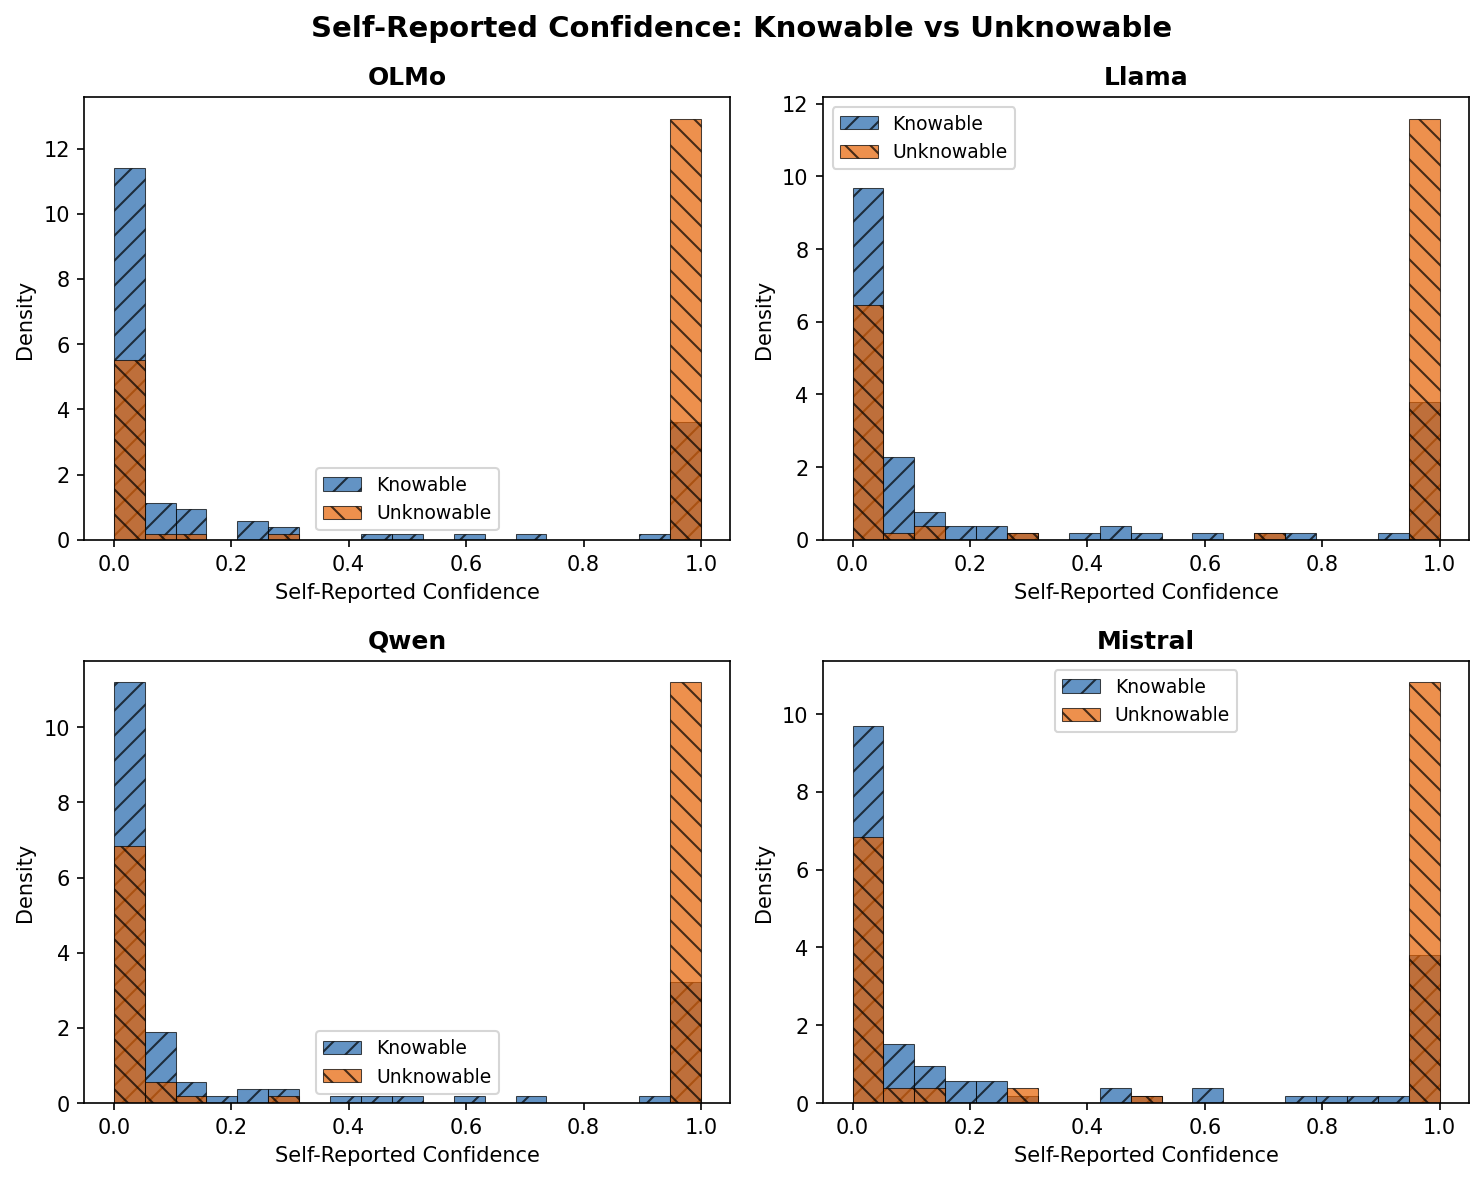
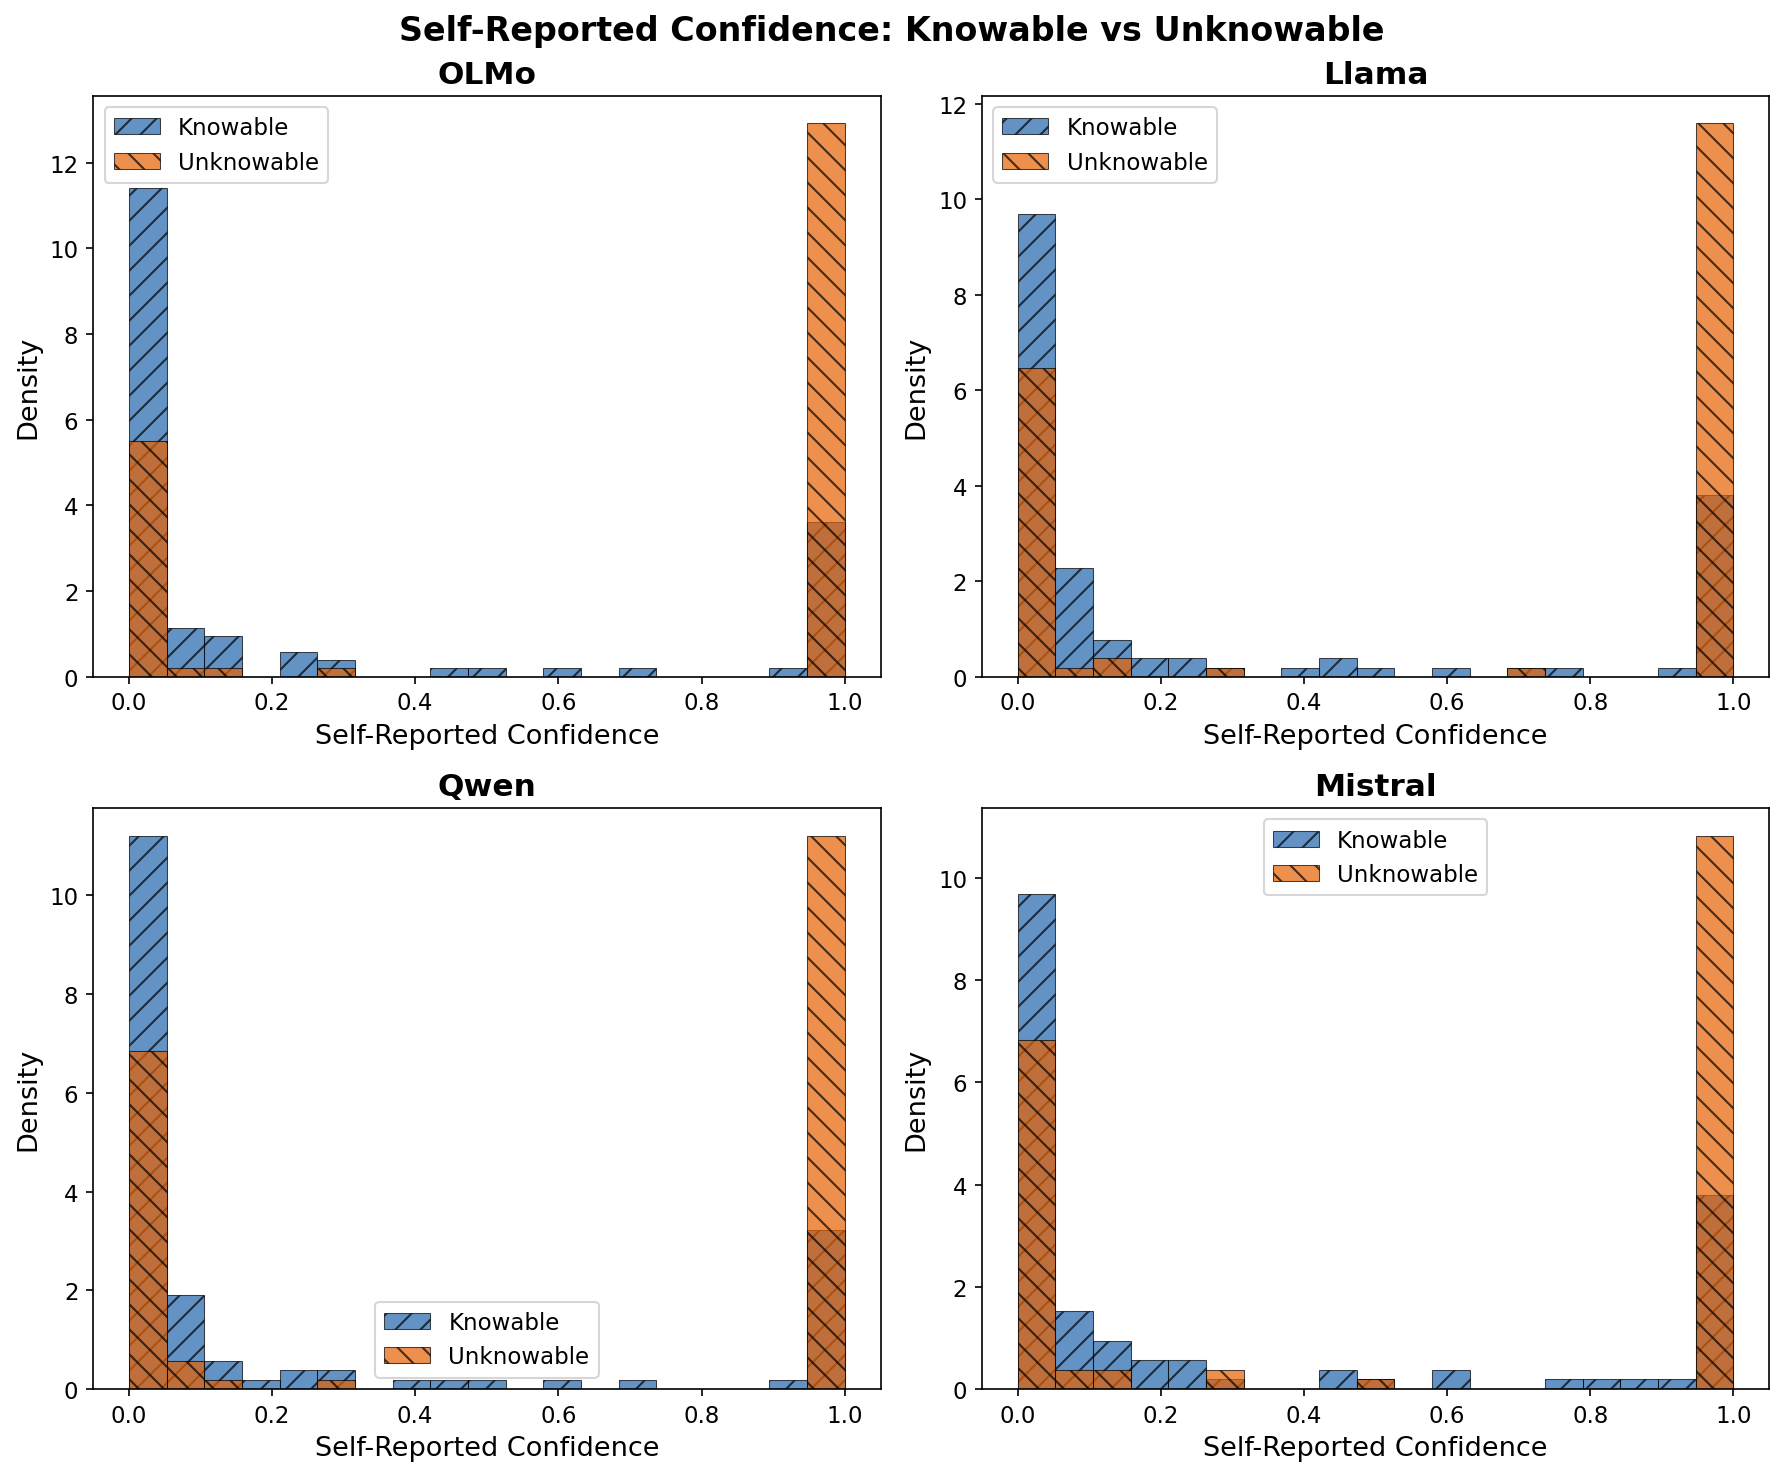
Fix figure readability in PACMI26 paper per Vaastav's request
- Budget curve and confidence-distribution figures now use larger
  axis/tick/legend fonts and embed TrueType fonts (pdf.fonttype=42)
  instead of bitmap fonts, per Vaastav's sizing spec.
- Fix +X.Xpp annotation collisions with the Composed curve in the
  budget curve figure.
- Fix mid-word line breaks in the wombat entropy-trace figure
  (design.tex): group each word's per-token color boxes into an
  atomic \mbox so "scat" and "dispersal" no longer split across
  lines, while keeping breakable space between words and leaving
  each token's individual entropy coloring untouched.

diff --git a/scripts/regenerate_budget_curve.py b/scripts/regenerate_budget_curve.py
@@ -12,6 +12,15 @@ import matplotlib
 matplotlib.use("Agg")
 import numpy as np
 
+matplotlib.rcParams["pdf.fonttype"] = 42
+matplotlib.rcParams["ps.fonttype"] = 42
+
+LEGEND_SIZE = 15
+LABEL_SIZE = 18
+TICK_SIZE = 15
+FIG_W_SIZE = 8
+FIG_H_SIZE = 4
+
 # Data from consistent Monte Carlo simulation (1000 trials, seed=42)
 # with stratified evaluator labels (75/80 human calibration, 93.8%)
 # Text baseline uses raw word count (the strongest text-channel signal,
@@ -25,7 +34,7 @@ data = {
 
 budgets = [10, 20, 30]
 
-fig, ax = plt.subplots(1, 1, figsize=(6, 4))
+fig, ax = plt.subplots(1, 1, figsize=(FIG_W_SIZE, FIG_H_SIZE))
 
 # Colorblind-friendly: blue, orange, brown, gray — no red-green
 # Distinct markers + linestyles ensure greyscale readability
@@ -42,23 +51,26 @@ for label, values in data.items():
             linestyle=s["linestyle"], linewidth=s["linewidth"],
             color=s["color"], markersize=8)
 
-# Annotate the growing gap at each budget level
+# Annotate the growing gap at each budget level, offset above the higher
+# line so the label doesn't collide with the Composed curve.
 for i, b in enumerate(budgets):
     tensor_y = data["Tensor-guided"][i]
     length_y = data["Text-guided (length)"][i]
+    composed_y = data["Composed"][i]
     gap = tensor_y - length_y
-    mid_y = (tensor_y + length_y) / 2
+    top_y = max(tensor_y, composed_y)
     ax.annotate(f"+{gap:.1f}pp",
-                xy=(b, mid_y), fontsize=8, color="#555555",
-                ha="left", va="center",
-                xytext=(b + 1.5, mid_y))
+                xy=(b, top_y), fontsize=TICK_SIZE - 3, color="#555555",
+                ha="center", va="bottom",
+                xytext=(b, top_y + 1.6))
 
-ax.set_xlabel("Verification Budget (%)", fontsize=11)
-ax.set_ylabel("End-to-End Accuracy (%)", fontsize=11)
+ax.set_xlabel("Verification Budget (%)", fontsize=LABEL_SIZE)
+ax.set_ylabel("End-to-End Accuracy (%)", fontsize=LABEL_SIZE)
 ax.set_xticks(budgets)
+ax.tick_params(axis="both", labelsize=TICK_SIZE)
 ax.set_xlim(5, 35)
-ax.set_ylim(73, 95)
-ax.legend(loc="lower right", fontsize=9)
+ax.set_ylim(73, 97)
+ax.legend(loc="lower right", fontsize=LEGEND_SIZE)
 ax.grid(True, alpha=0.3)
 
 plt.tight_layout()
@@ -67,6 +79,7 @@ plt.tight_layout()
 for ext in ["pdf", "png"]:
     for dest in [
         f"papers/sosp/figures/exp27_aggregate_budget_curve.{ext}",
+        f"papers/pacmi26/figures/exp27_aggregate_budget_curve.{ext}",
         f"arxiv/exp27_aggregate_budget_curve.{ext}",
         f"exp27_aggregate_budget_curve.{ext}",
     ]:

diff --git a/scripts/regenerate_confidence_distributions.py b/scripts/regenerate_confidence_distributions.py
@@ -11,6 +11,15 @@ import matplotlib.pyplot as plt
 import numpy as np
 import csv
 
+matplotlib.rcParams["pdf.fonttype"] = 42
+matplotlib.rcParams["ps.fonttype"] = 42
+
+TITLE_SIZE = 15
+LABEL_SIZE = 13
+TICK_SIZE = 11
+LEGEND_SIZE = 11
+SUPTITLE_SIZE = 16
+
 DATA_FILE = "exp27_bounded_verification_20260206_205725.csv"
 
 def load_data():
@@ -31,8 +40,8 @@ def main():
         "Mistral": "mistralai/Mistral-7B-Instruct-v0.3",
     }
 
-    fig, axes = plt.subplots(2, 2, figsize=(10, 8))
-    fig.suptitle("Self-Reported Confidence: Knowable vs Unknowable", fontsize=14, fontweight="bold")
+    fig, axes = plt.subplots(2, 2, figsize=(12, 10))
+    fig.suptitle("Self-Reported Confidence: Knowable vs Unknowable", fontsize=SUPTITLE_SIZE, fontweight="bold")
 
     # Colorblind-friendly: blue for knowable, orange for unknowable
     # Hatching for greyscale distinction
@@ -53,16 +62,18 @@ def main():
                 color=color_unknow, edgecolor="black", linewidth=0.5,
                 hatch="\\\\", density=True)
 
-        ax.set_title(label, fontsize=12, fontweight="bold")
-        ax.set_xlabel("Self-Reported Confidence", fontsize=10)
-        ax.set_ylabel("Density", fontsize=10)
-        ax.legend(fontsize=9)
+        ax.set_title(label, fontsize=TITLE_SIZE, fontweight="bold")
+        ax.set_xlabel("Self-Reported Confidence", fontsize=LABEL_SIZE)
+        ax.set_ylabel("Density", fontsize=LABEL_SIZE)
+        ax.tick_params(axis="both", labelsize=TICK_SIZE)
+        ax.legend(fontsize=LEGEND_SIZE)
 
     plt.tight_layout()
 
     for ext in ["pdf", "png"]:
         for dest in [
             f"papers/sosp/figures/exp27_confidence_distributions.{ext}",
+            f"papers/pacmi26/figures/exp27_confidence_distributions.{ext}",
             f"arxiv/exp27_confidence_distributions.{ext}",
             f"exp27_confidence_distributions.{ext}",
         ]:

diff --git a/papers/pacmi26/design.tex b/papers/pacmi26/design.tex
@@ -95,11 +95,11 @@ on signal set, compared to generation itself.
 
 \begin{figure}[t]
 \noindent%
-\etok{0}{W}\etok{1}{ombat}\etok{0}{ sc}\etok{0}{at}\etok{2}{ is}\etok{2}{ typically}\etok{4}{ cylindrical}\etok{3}{ or}\etok{5}{ sausage}\etok{0}{-shaped}%
-\etok{1}{.}\etok{2}{ This}\etok{3}{ form}\etok{1}{ helps}\etok{2}{ the}\etok{2}{ sc}\etok{0}{at}\etok{3}{ to}\etok{1}{ be}\etok{2}{ easily}%
-\etok{5}{ transported}\etok{4}{ by}\etok{2}{ wind}\etok{3}{ or}\etok{6}{ through}\etok{2}{ the}\etok{6}{ soil}\etok{3}{,}\etok{4}{ aiding}\etok{0}{ in}%
-\etok{3}{ dispers}\etok{0}{al}\etok{2}{ and}\etok{5}{ preventing}\etok{5}{ it}\etok{0}{ from}\etok{4}{ being}\etok{6}{ easily}\etok{6}{ eaten}\etok{0}{ by}%
-\etok{1}{ predators}\etok{2}{.}%
+\mbox{\etok{0}{W}\etok{1}{ombat}}\hskip 0pt plus 1pt\mbox{\etok{0}{ sc}\etok{0}{at}}\hskip 0pt plus 1pt\mbox{\etok{2}{ is}}\hskip 0pt plus 1pt\mbox{\etok{2}{ typically}}\hskip 0pt plus 1pt\mbox{\etok{4}{ cylindrical}}\hskip 0pt plus 1pt\mbox{\etok{3}{ or}}\hskip 0pt plus 1pt\mbox{\etok{5}{ sausage}\etok{0}{-shaped}}%
+\hskip 0pt plus 1pt\mbox{\etok{1}{.}}\hskip 0pt plus 1pt\mbox{\etok{2}{ This}}\hskip 0pt plus 1pt\mbox{\etok{3}{ form}}\hskip 0pt plus 1pt\mbox{\etok{1}{ helps}}\hskip 0pt plus 1pt\mbox{\etok{2}{ the}}\hskip 0pt plus 1pt\mbox{\etok{2}{ sc}\etok{0}{at}}\hskip 0pt plus 1pt\mbox{\etok{3}{ to}}\hskip 0pt plus 1pt\mbox{\etok{1}{ be}}\hskip 0pt plus 1pt\mbox{\etok{2}{ easily}}%
+\hskip 0pt plus 1pt\mbox{\etok{5}{ transported}}\hskip 0pt plus 1pt\mbox{\etok{4}{ by}}\hskip 0pt plus 1pt\mbox{\etok{2}{ wind}}\hskip 0pt plus 1pt\mbox{\etok{3}{ or}}\hskip 0pt plus 1pt\mbox{\etok{6}{ through}}\hskip 0pt plus 1pt\mbox{\etok{2}{ the}}\hskip 0pt plus 1pt\mbox{\etok{6}{ soil}}\hskip 0pt plus 1pt\mbox{\etok{3}{,}}\hskip 0pt plus 1pt\mbox{\etok{4}{ aiding}}\hskip 0pt plus 1pt\mbox{\etok{0}{ in}}%
+\hskip 0pt plus 1pt\mbox{\etok{3}{ dispers}\etok{0}{al}}\hskip 0pt plus 1pt\mbox{\etok{2}{ and}}\hskip 0pt plus 1pt\mbox{\etok{5}{ preventing}}\hskip 0pt plus 1pt\mbox{\etok{5}{ it}}\hskip 0pt plus 1pt\mbox{\etok{0}{ from}}\hskip 0pt plus 1pt\mbox{\etok{4}{ being}}\hskip 0pt plus 1pt\mbox{\etok{6}{ easily}}\hskip 0pt plus 1pt\mbox{\etok{6}{ eaten}}\hskip 0pt plus 1pt\mbox{\etok{0}{ by}}%
+\hskip 0pt plus 1pt\mbox{\etok{1}{ predators}}\hskip 0pt plus 1pt\mbox{\etok{2}{.}}%
 
 \vspace{4pt}
 \noindent\small%